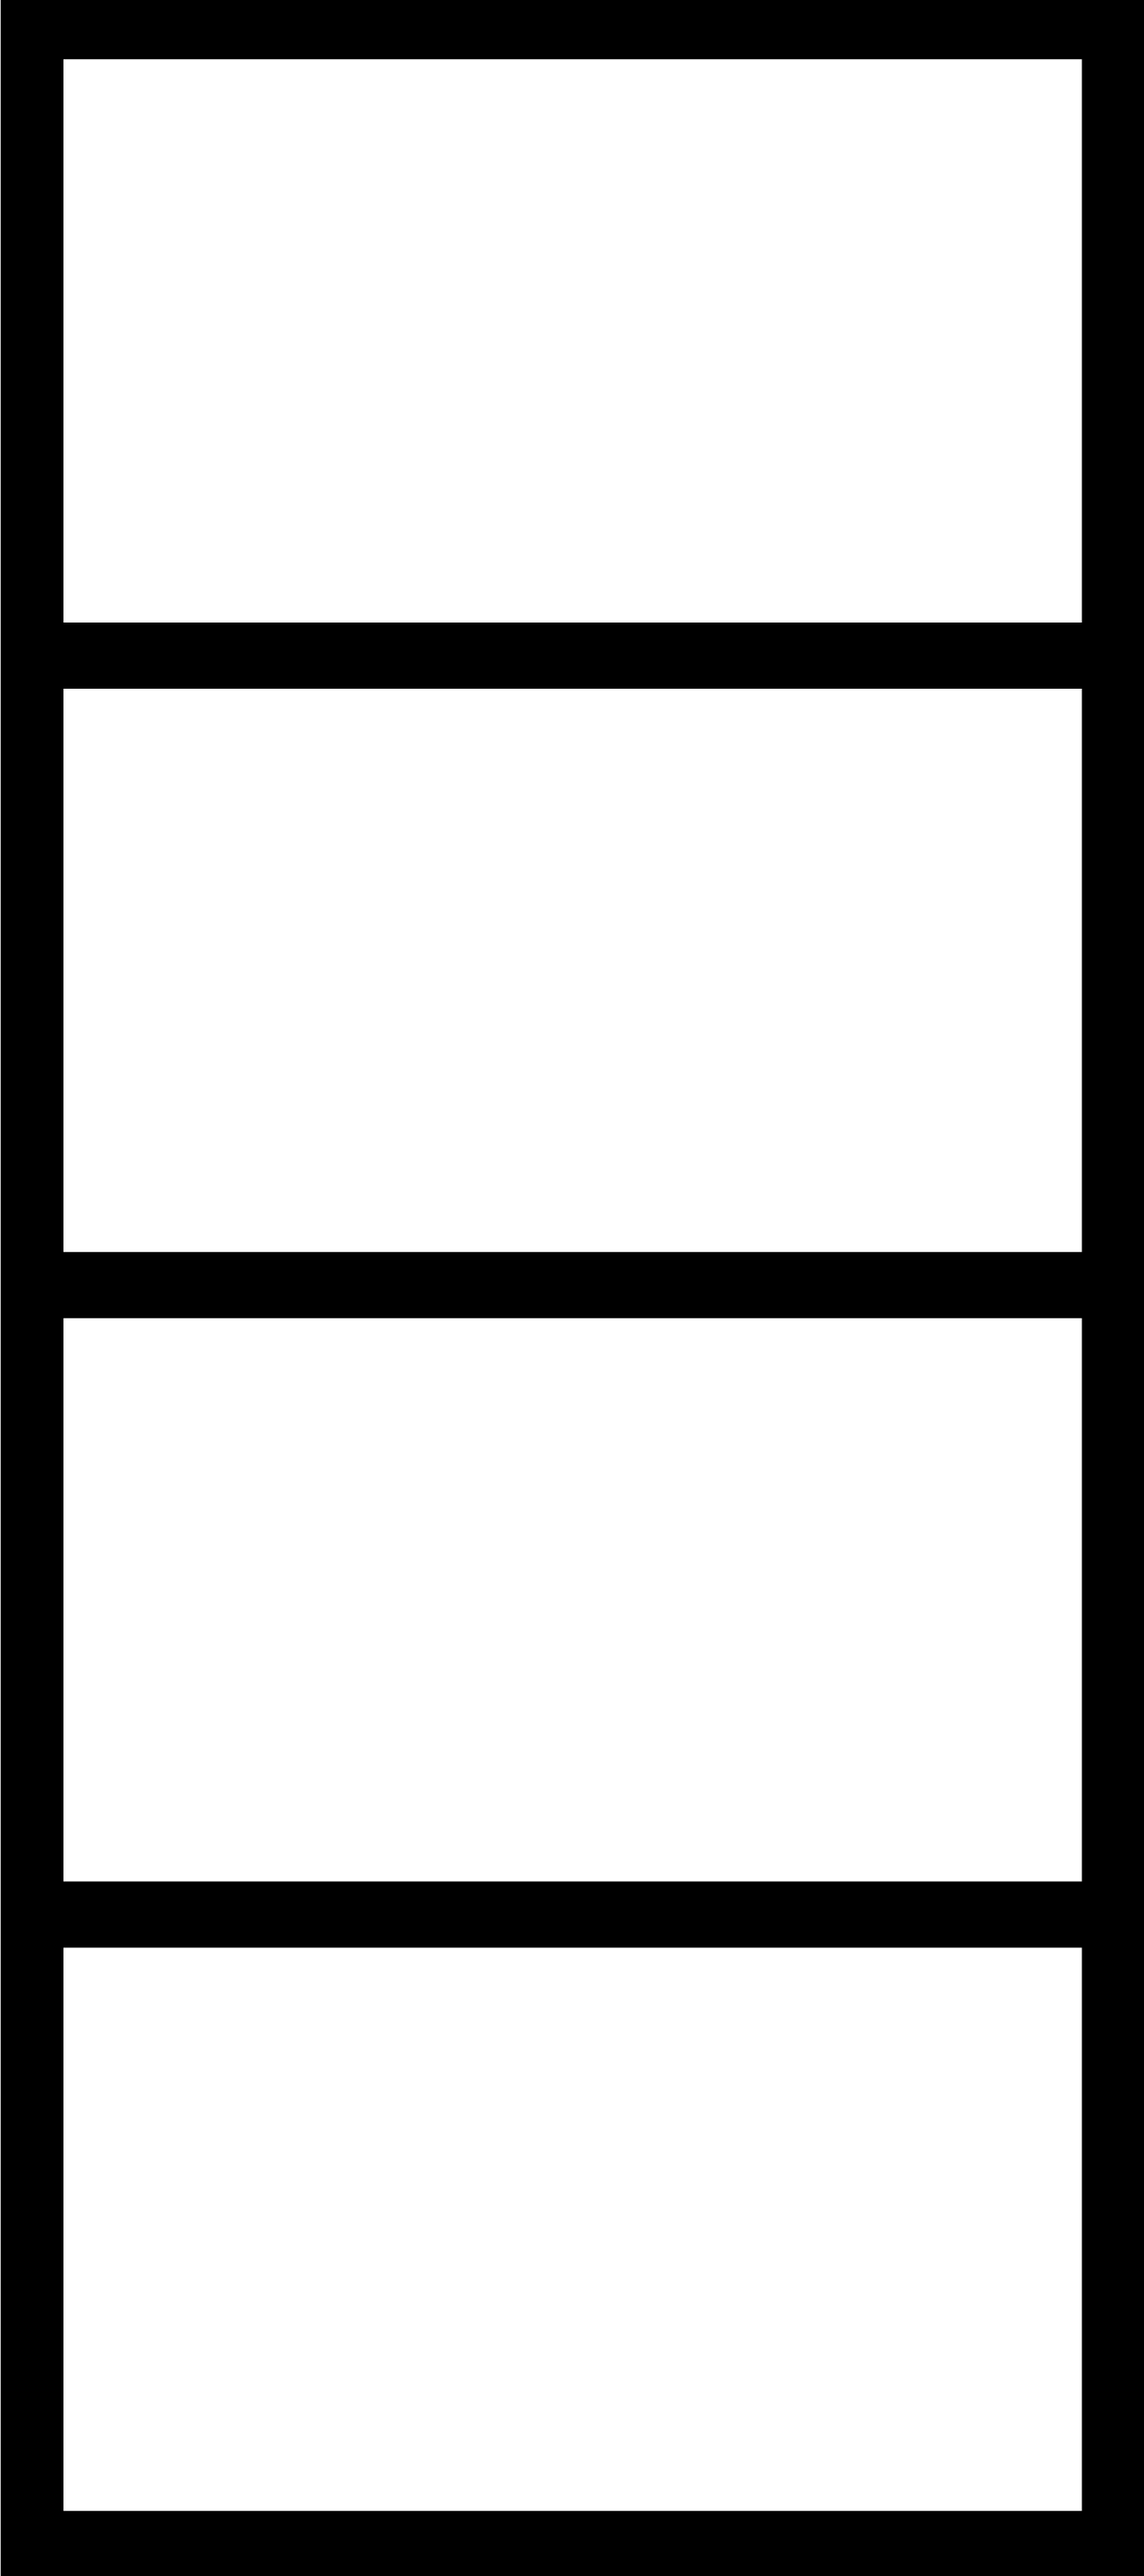
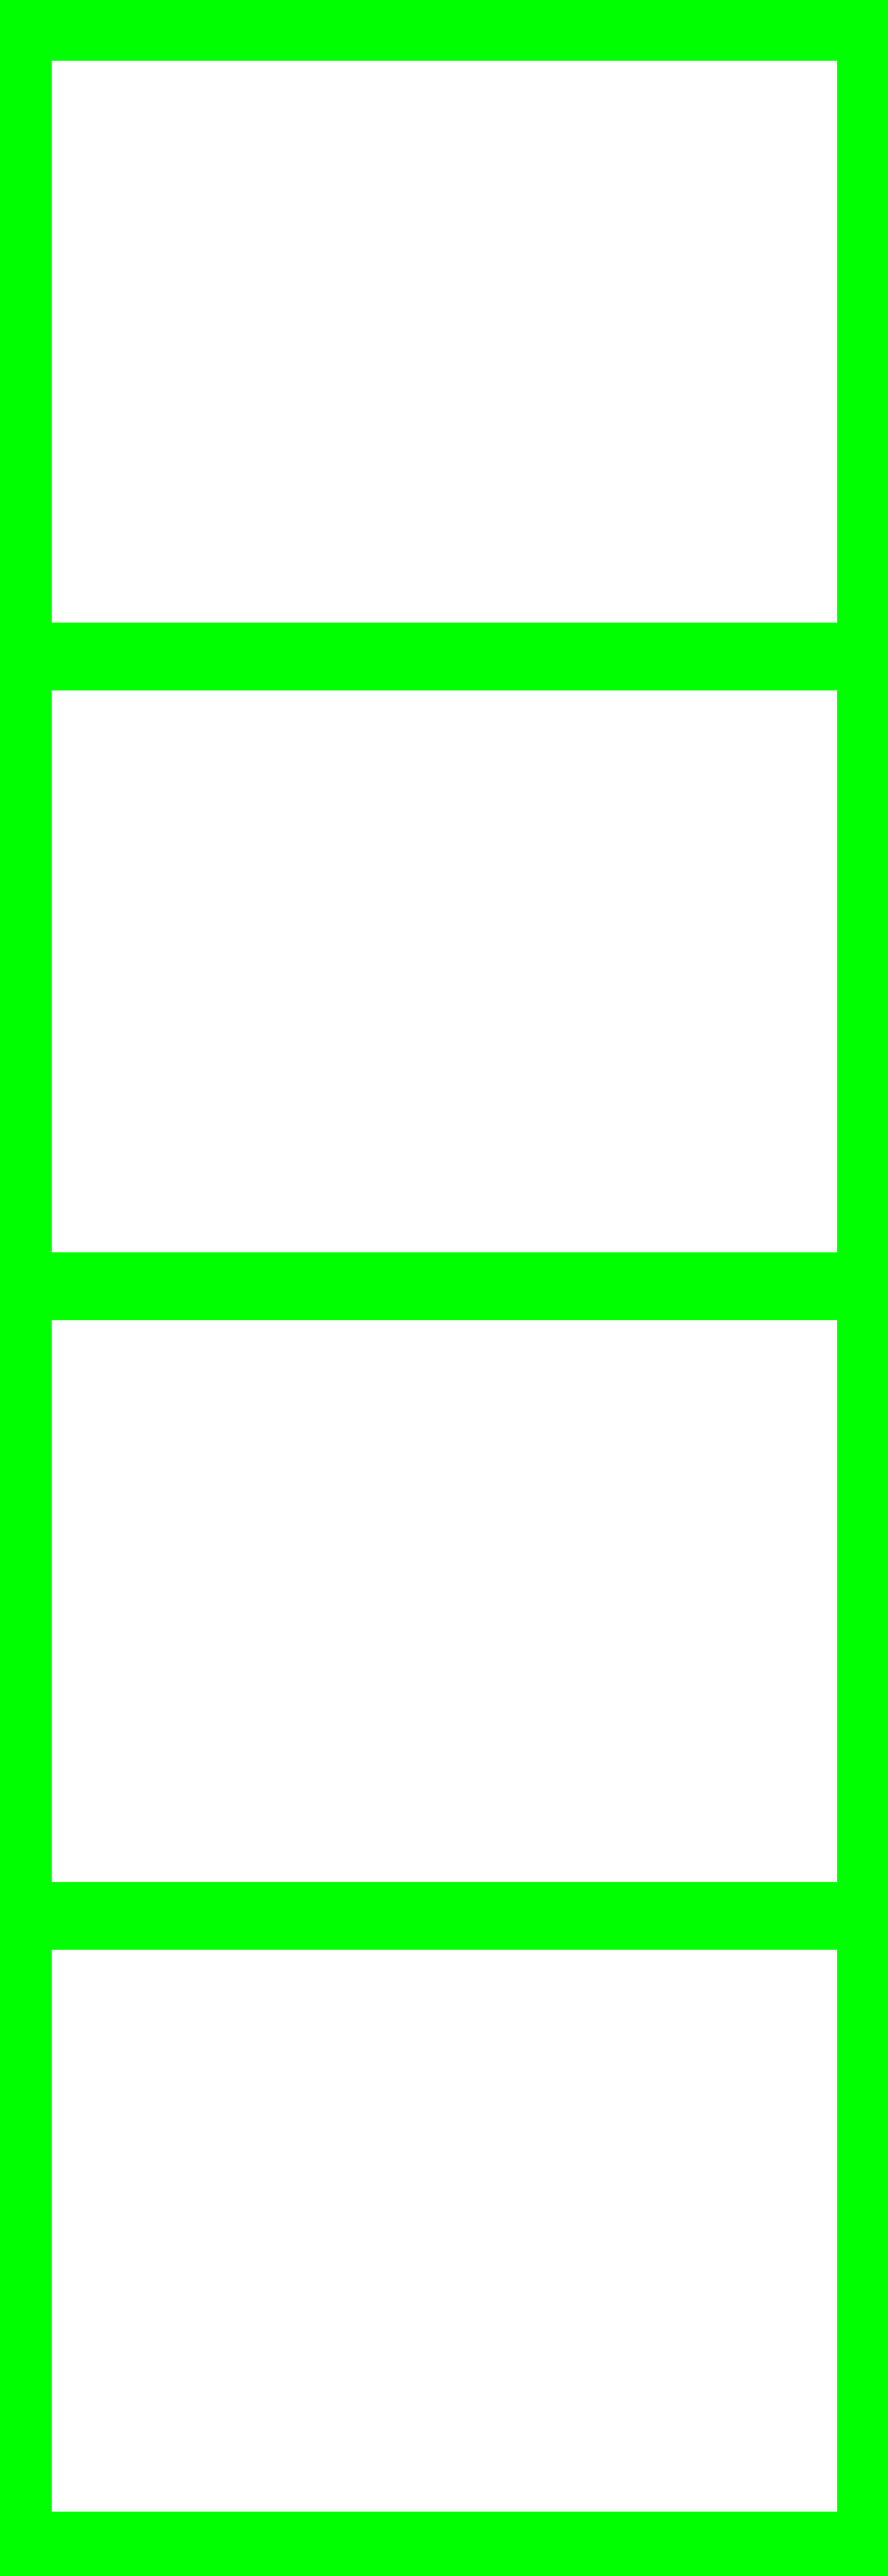
fixed layout4

Changed region(s): [[0.0, 0.0, 1.0, 1.0]]

diff --git a/src/final.js b/src/final.js
@@ -2,7 +2,13 @@ document.addEventListener("DOMContentLoaded", () => {
   const canvas = document.getElementById("finalCanvas");
   const ctx = canvas.getContext("2d");
 
-  const frameOptions = document.querySelectorAll(".frame-option");
+  const FRAME_DESIGNS = [
+    { label: "Floral", src: "./src/assets/frames/frame-floral.png" },
+    { label: "Pastel", src: "./src/assets/frames/frame-pastel.png" },
+    { label: "Vintage", src: "./src/assets/frames/frame-vintage.png" },
+    { label: "Minimal", src: "./src/assets/frames/frame-minimal.png" },
+  ];
+
   const saveButton = document.querySelector(
     'img[src="./src/assets/button save.png"]',
   );
@@ -30,33 +36,86 @@ document.addEventListener("DOMContentLoaded", () => {
 
     // Draw foto pertama kali (tanpa frame)
     drawPhotoToCanvas();
+    buildFramePicker();
   };
   basePhotoImg.src = finalImage;
 
   // Disable tombol save dulu
   disableSaveButton();
 
-  // ============================
-  // CLICK FRAME → REAL-TIME PREVIEW
-  // ============================
-  frameOptions.forEach((frameOption) => {
-    frameOption.addEventListener("click", () => {
-      // Remove selected dari semua
-      frameOptions.forEach((f) => f.classList.remove("selected"));
+  function buildFramePicker() {
+    // Cari container yang sudah ada di HTML, atau buat baru
+    let pickerContainer = document.getElementById("frame-picker");
 
-      // Add selected ke yang diklik
-      frameOption.classList.add("selected");
+    if (!pickerContainer) {
+      // Buat container otomatis kalau belum ada di HTML
+      pickerContainer = document.createElement("div");
+      pickerContainer.id = "frame-picker";
+      pickerContainer.style.cssText = `
+        display: flex;
+        gap: 12px;
+        justify-content: center;
+        flex-wrap: wrap;
+        margin: 16px 0;
+      `;
+      // Sisipkan sebelum canvas
+      canvas.parentElement.insertBefore(pickerContainer, canvas);
+    }
 
-      // Simpan frame yang dipilih
-      selectedFrameSrc = frameOption.src;
+    pickerContainer.innerHTML = ""; // reset kalau dipanggil ulang
 
-      // LANGSUNG RENDER FOTO + FRAME
-      drawPhotoWithFrame();
+    FRAME_DESIGNS.forEach(({ label, src }) => {
+      const wrapper = document.createElement("div");
+      wrapper.style.cssText = `
+        display: flex;
+        flex-direction: column;
+        align-items: center;
+        cursor: pointer;
+        gap: 4px;
+      `;
 
-      // Enable tombol save
-      enableSaveButton();
+      const thumb = document.createElement("img");
+      thumb.src = src;
+      thumb.alt = label;
+      thumb.style.cssText = `
+        width: 70px;
+        height: 70px;
+        object-fit: cover;
+        border-radius: 8px;
+        border: 3px solid transparent;
+        transition: border-color 0.2s, transform 0.15s;
+      `;
+
+      const lbl = document.createElement("span");
+      lbl.textContent = label;
+      lbl.style.cssText = `
+        font-size: 11px;
+        color: #fff;
+        font-family: sans-serif;
+      `;
+
+      wrapper.appendChild(thumb);
+      wrapper.appendChild(lbl);
+
+      wrapper.addEventListener("click", () => {
+        // Hapus selected dari semua thumb
+        pickerContainer.querySelectorAll("img").forEach((img) => {
+          img.style.borderColor = "transparent";
+          img.style.transform = "scale(1)";
+        });
+
+        // Tandai yang dipilih
+        thumb.style.borderColor = "#ff85b3";
+        thumb.style.transform = "scale(1.08)";
+
+        selectedFrameSrc = src;
+        drawPhotoWithFrame();
+        enableSaveButton();
+      });
+
+      pickerContainer.appendChild(wrapper);
     });
-  });
+  }
 
   // ============================
   // FUNCTION: Draw Foto Aja
@@ -113,15 +172,22 @@ document.addEventListener("DOMContentLoaded", () => {
     }
 
     // Download hasil akhir dari canvas
-    const finalResult = canvas.toDataURL("image/png");
-    const link = document.createElement("a");
-    link.href = finalResult;
-    link.download = `slika-photobooth-${Date.now()}.png`;
-    document.body.appendChild(link);
-    link.click();
-    document.body.removeChild(link);
+    const frameImg = new Image();
+    frameImg.onload = () => {
+      ctx.clearRect(0, 0, canvas.width, canvas.height);
+      ctx.drawImage(basePhotoImg, 0, 0, canvas.width, canvas.height);
+      ctx.drawImage(frameImg, 0, 0, canvas.width, canvas.height);
 
-    console.log("✅ Foto berhasil didownload!");
+      const finalResult = canvas.toDataURL("image/png");
+      const link = document.createElement("a");
+      link.href = finalResult;
+      link.download = `slika-photobooth-${Date.now()}.png`;
+      document.body.appendChild(link);
+      link.click();
+      document.body.removeChild(link);
+      console.log("✅ Foto berhasil didownload!");
+    };
+    frameImg.src = selectedFrameSrc;
   });
 
   // ============================

diff --git a/src/takephoto.js b/src/takephoto.js
@@ -452,42 +452,48 @@ function placePhotos(ctx, layout, loadedPhotos) {
   }
 
   if (layout === "layout3") {
-    const H = 870;
+    // Sesuai frame-floral.png (1280 x 2880)
+    // Kotak 1: x:78, y:77,  w:1137, h:689
+    // Kotak 2: x:78, y:838, w:1137, h:689
+    // Kotak 3: x:78, y:1600, w:1137, h:689
 
-    const img1 = loadedPhotos[0];
-    const W1 = H * (img1.width / img1.height);
-    ctx.drawImage(img1, 50, 100, W1, H);
+    const slots = [
+      { x: 78, y: 77, w: 1137, h: 689 },
+      { x: 78, y: 838, w: 1137, h: 689 },
+      { x: 78, y: 1600, w: 1137, h: 689 },
+    ];
 
-    const img2 = loadedPhotos[1];
-    const W2 = H * (img2.width / img2.height);
-    ctx.drawImage(img2, 50, 970, W2, H); //
+    // Set canvas sesuai ukuran frame
+    ctx.canvas.width = 1280;
+    ctx.canvas.height = 2880;
 
-    const img3 = loadedPhotos[2];
-    const W3 = H * (img3.width / img3.height);
-    ctx.drawImage(img3, 50, 1820, W3, H);
+    // Gambar foto tepat di tiap slot
+    slots.forEach((slot, i) => {
+      ctx.drawImage(loadedPhotos[i], slot.x, slot.y, slot.w, slot.h);
+    });
   }
 
   if (layout === "layout4") {
-    const H = 670;
+    const paddingX = 50;
     const gap = 40;
     const startY = 40;
-    const slotW = 960;
+    const H = 670;
 
     const img1 = loadedPhotos[0];
-    const W1 = H * (img1.width / img1.height);
-    ctx.drawImage(img1, 50, startY, W1, H); // y = 40
+    const photoW = H * (img1.width / img1.height);
 
-    const img2 = loadedPhotos[1];
-    const W2 = H * (img2.width / img2.height);
-    ctx.drawImage(img2, 50, startY + (H + gap), W2, H); // y = 750
+    // Resize canvas sesuai konten
+    ctx.canvas.width = paddingX * 2 + photoW;
+    ctx.canvas.height = startY * 2 + H * 4 + gap * 3;
 
-    const img3 = loadedPhotos[2];
-    const W3 = H * (img3.width / img3.height);
-    ctx.drawImage(img3, 50, startY + (H + gap) * 2, W3, H); // y = 1460
+    // Gambar foto dulu
+    ctx.drawImage(loadedPhotos[0], paddingX, startY, photoW, H);
+    ctx.drawImage(loadedPhotos[1], paddingX, startY + (H + gap), photoW, H);
+    ctx.drawImage(loadedPhotos[2], paddingX, startY + (H + gap) * 2, photoW, H);
+    ctx.drawImage(loadedPhotos[3], paddingX, startY + (H + gap) * 3, photoW, H);
 
-    const img4 = loadedPhotos[3];
-    const W4 = H * (img4.width / img4.height);
-    ctx.drawImage(img4, 50, startY + (H + gap) * 3, W4, H); // y = 2170
+    // Gambar layout PNG di atasnya (akan di-scale otomatis)
+    // ctx.drawImage(layoutImg, 0, 0, ctx.canvas.width, ctx.canvas.height);
   }
 }
 

diff --git a/index4.html b/index4.html
@@ -1,4 +1,4 @@
-<!DOCTYPE html>
+<!doctype html>
 <html lang="en">
   <head>
     <meta charset="UTF-8" />
@@ -24,7 +24,7 @@
       "
       src="./src/assets/logo-slika.png"
       alt="logo"
-      onclick="window.location.href='index.html'"
+      onclick="window.location.href = 'index.html'"
     />
     <img
       class="sparklee sparkle1 object-cover absolute z-10"
@@ -60,7 +60,7 @@
         <!-- FRAME STICKER -->
         <div
           class="frame-wrapper"
-          style="position: relative; width: 300px; left: -250px"
+          
         >
           <img src="./src/assets/framesticker.png" />
           <!-- FRAME CONTAINER -->
